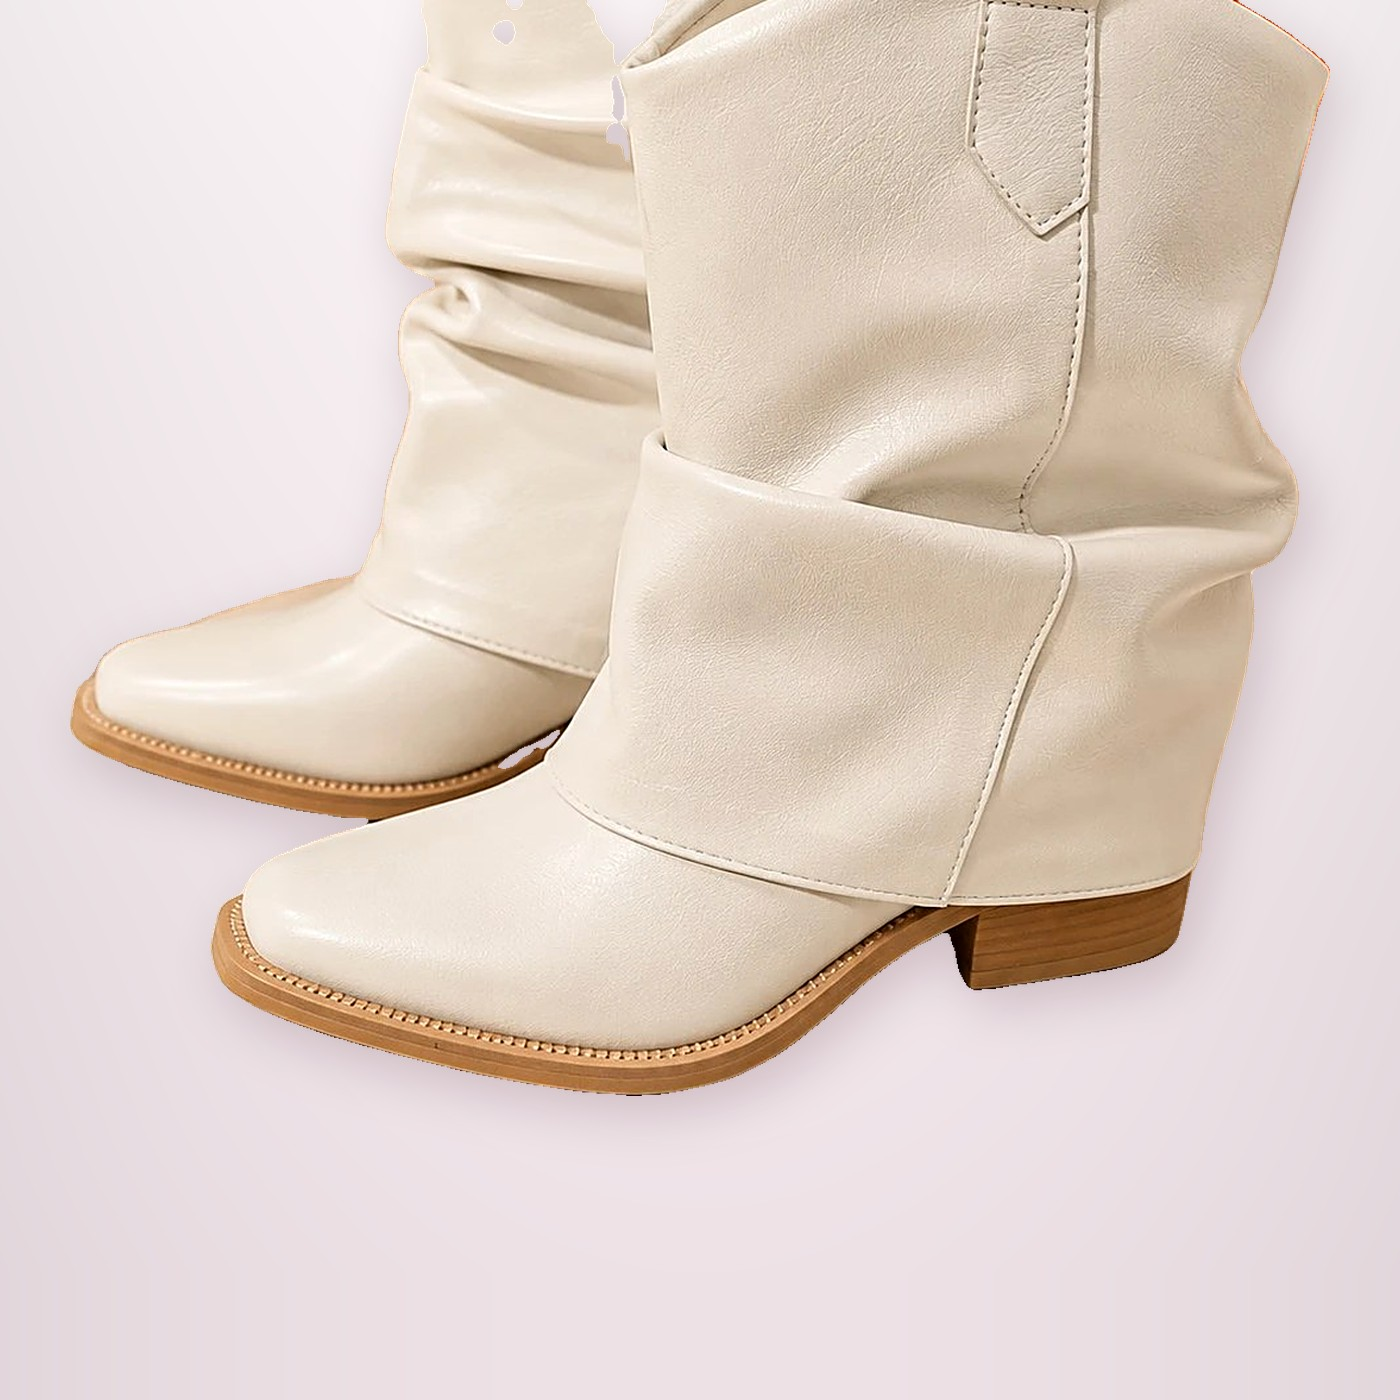
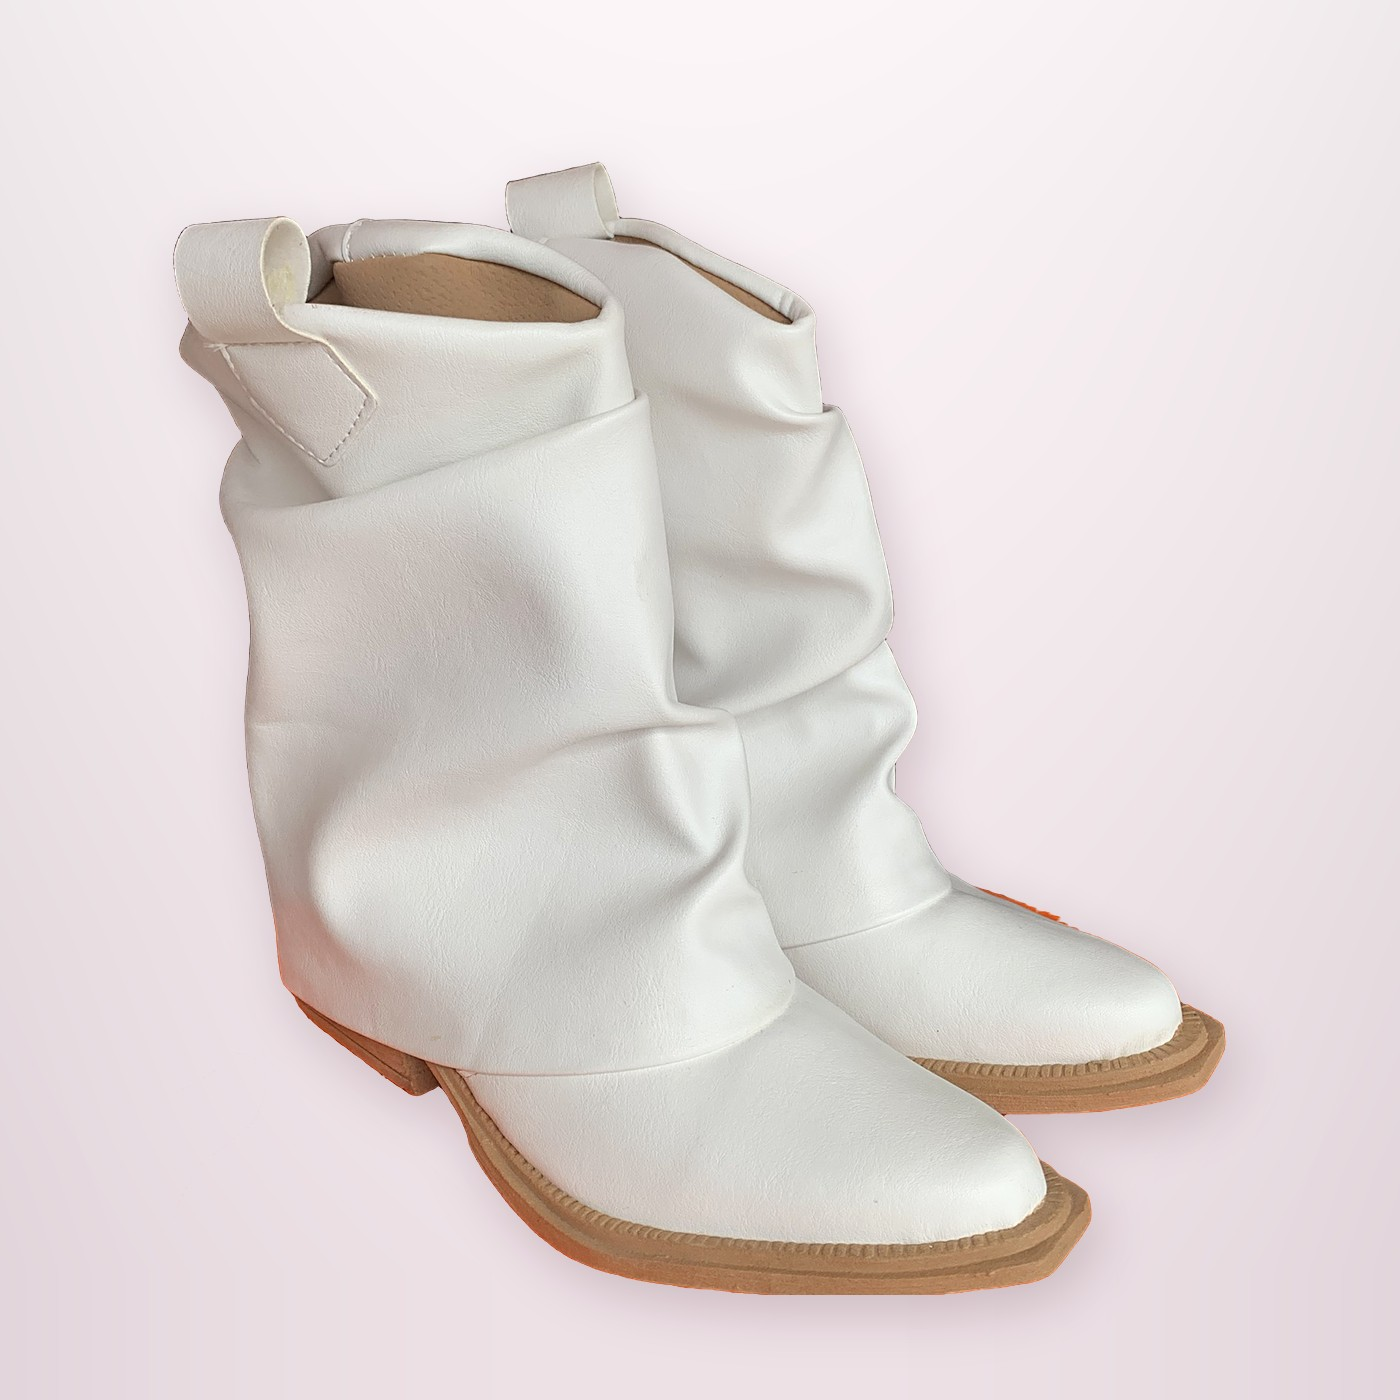
Bota caña fruncida: fotos reales de blanco, negro y bordó
Claude-Session: https://claude.ai/code/session_016kC1pPyL2jkNLS5KGy46ZW

diff --git a/productos.js b/productos.js
@@ -45,7 +45,7 @@
     {id:9,cat:"botas",nombre:"Bota corta con tachas",desc:"Elásticos laterales, tachas, taco de madera.",precio:30000,talles:[35,36,37,38,39,40],colores:[{id:"marron",nombre:"Marrón",hex:"#4E2E1E",foto:"fotos/bota-corta-tachas-marron.jpg"},{id:"negro",nombre:"Negro",hex:"#1C1C1C",foto:"fotos/bota-corta-tachas-negra.jpg"}]},
     {id:3,cat:"botas",caja:"bota-alta",nombre:"Bota texana con flecos",desc:"Gamuza, flecos laterales y tachas.",precio:55000,talles:[35,36,37,38,39,40],colores:[{id:"marron",nombre:"Marrón",hex:"#3E2418",foto:"fotos/bota-flecos-tachas-marron.jpg"},{id:"negro",nombre:"Negro",hex:"#1C1C1C",foto:"fotos/bota-flecos-tachas-negra.jpg"}]},
     {id:12,cat:"botas",caja:"bota-alta",nombre:"Bota caña alta con flecos",desc:"Caña fruncida, tiras con argollas, punta fina.",precio:50000,talles:[35,36,37,38,39,40],colores:[{id:"negro",nombre:"Negro",hex:"#1C1C1C",foto:"fotos/bota-cana-alta-flecos-negra.webp"},{id:"blanco",nombre:"Blanco",hex:"#F2EFEA"}]},
-    {id:4,cat:"botas",nombre:"Bota caña fruncida",desc:"Caña ancha fruncida, punta fina, taco bajo.",precio:40000,talles:[35,36,37,38,39,40],colores:[{id:"blanco",nombre:"Blanco",hex:"#F2EFEA",foto:"fotos/bota-fruncida-blanca.jpg"},{id:"negro",nombre:"Negro",hex:"#1C1C1C"},{id:"bordo",nombre:"Bordó",hex:"#5E1A22"},{id:"camel",nombre:"Camel",hex:"#C19A6B",foto:"fotos/bota-fruncida-camel.jpg"}]},
+    {id:4,cat:"botas",nombre:"Bota caña fruncida",desc:"Caña ancha fruncida, punta fina, taco bajo.",precio:40000,talles:[35,36,37,38,39,40],colores:[{id:"blanco",nombre:"Blanco",hex:"#F2EFEA",foto:"fotos/bota-fruncida-blanca.jpg"},{id:"negro",nombre:"Negro",hex:"#1C1C1C",foto:"fotos/bota-fruncida-negra.jpg"},{id:"bordo",nombre:"Bordó",hex:"#5E1A22",foto:"fotos/bota-fruncida-bordo.jpg"},{id:"camel",nombre:"Camel",hex:"#C19A6B",foto:"fotos/bota-fruncida-camel.jpg"}]},
     {id:5,cat:"botas",nombre:"Bota fruncida con hebillas",desc:"Caña fruncida, dos hebillas, taco chino.",precio:40000,talles:[35,36,37,38,39,40],colores:[{id:"negro",nombre:"Negro",hex:"#1C1C1C",foto:"fotos/bota-hebillas-negra.jpg"}]},
     {id:6,cat:"zapatos",nombre:"Zapato acordonado con tachas",desc:"Plataforma dentada, tachas plateadas.",precio:30000,talles:[35,36,37,38,39,40],colores:[{id:"bordo",nombre:"Bordó",hex:"#5E1A22",foto:"fotos/zapato-acordonado-bordo.webp"},{id:"negro",nombre:"Negro",hex:"#1C1C1C",foto:"fotos/zapato-acordonado-negro.jpg"}]},
     {id:7,cat:"zapatillas",nombre:"Zapatillas retro de gamuza",desc:"Gamuza, cordones anchos, suela de goma.",precio:30000,talles:[35,36,37,38,39,40,41,42,43,44],colores:[{id:"verde",nombre:"Verde",hex:"#095D13",foto:"fotos/zapatilla-campus-verde.webp"},{id:"negro",nombre:"Negro",hex:"#000000",foto:"fotos/zapatilla-campus-negra.jpg"}]},

diff --git a/CLAUDE.md b/CLAUDE.md
@@ -20,7 +20,7 @@ No hay Node ni Python en las computadoras. `.claude/launch.json` → "tienda" le
 - Hecho: catálogo con fotos (logos "Todo20" recortados; Todo20 es otra marca del mismo dueño), logo e isotipo (`img/`), checkout, envíos, editor, textos legales.
 - Catálogo Pontecomoda (proveedor/socio, se pueden usar sus fotos): ids 15 en adelante, nombres reescritos para clientes. Solo están disponibles los artículos de la "lista de precios verano" (Samba, Emi, Vicky, Ricky, París, Lore, Katy, Aldi, Romi, Vitto, Italia, Moscú, Zahira, Ximena, Cleo/Creo, Lali, India, Ameli, Cruz, Birk, Frida, Lupe, Verona tachas, Verona lisa, Támesis, Umma). El resto tiene `oculto:true` (desactivado, se reactiva borrando esa marca). Precio de venta = costo + $10.000 redondeado hacia abajo al millar (margen $9.000–10.000). No cargar artículos con logos de otras marcas (se descartó la Art. Air por la pipa de Nike).
 - Todos los productos activos tienen precio. Zapato acordonado $30.000, zapatillas urbanas gamuza $45.000, Campus y Samba (viejas) $30.000.
-- Faltan las fotos de los colores nuevos: negro (caña fruncida), blanco (caña alta con flecos) y bordó (caña fruncida). Mientras tanto la página avisa "foto de referencia en otro color".
+- Falta la foto del blanco de la bota caña alta con flecos (id 12). Mientras tanto la página avisa "foto de referencia en otro color".
 - El código está en GitHub: `tinchoteee/todo20`. Vercel publica la rama `main` en https://nacireina.vercel.app (cada push a `main` se publica solo). Dominio propio `nacireinacalzados.com` agregado en Vercel (2026-09-29; `www` redirige al dominio sin www). Con el dominio andando se puede verificar en Resend y cargar `RESEND_FROM` para mandarle mail de confirmación al cliente.
 - Configurado en Vercel (2026-09-28): base de datos Upstash, `ADMIN_CLAVE` y `MP_ACCESS_TOKEN` de producción (app "Nací Reina" en MP developers). La tienda ya cobra. Después (2026-09-29): Resend (`RESEND_API_KEY`, `AVISOS_EMAIL`) y Zipnova (`ZIPNOVA_API_TOKEN/SECRET/ACCOUNT_ID`, sin `ZIPNOVA_ORIGIN_ID`: usa el origen predeterminado de la cuenta) configurados y probados; compra real de prueba OK.
 - Beneficios por monto: envío gratis desde $150.000 (`envio.gratisDesde`, sobre el subtotal sin descuento) y 15% OFF en los productos desde $200.000 (`descuento` en productos.js; la cuenta está en `aplicarAjustes.conDescuento`, la usan página y servidor). El carrito muestra una barra de progreso con las dos metas.
@@ -40,7 +40,7 @@ No hay Node ni Python en las computadoras. `.claude/launch.json` → "tienda" le
 - Nunca pedir ni pegar claves ni datos bancarios en el chat: el usuario los carga directo en Vercel y en Mercado Pago.
 - Nombres sin marcas ajenas (2026-09-29): Campus → "Zapatillas retro de gamuza" (id 7), Samba → "Zapatillas retro suela caramelo" (id 8; después se unió a la id 31 a pedido del dueño: quedó `oculto` y su color marrón pasó a la 31 como "Caramelo y negro" a $30.000; su negro era el mismo que el de la 31), estilo Samba → "Zapatillas retro Reina" (id 31), Samba sin talón → "Zapatillas retro sin talón" (id 15, oculto). No usar Samba, Campus ni "tres tiras" en textos para clientes (los archivos de fotos conservan el nombre viejo).
 - Zapatillas retro Reina (id 31), 2026-09-29: el dueño dejó solo los 4 colores que tiene en el local (Negro, Blanco y negro, Blanco y gris, Marrón), todos a $24.000, con fotos propias sobre fondo blanco (`fotos/zapatilla-retro-*.jpg`; `FONDO=blanco` en `.claude/fotos-fondo.py`, recorte con el modelo birefnet-general-lite). Los colores viejos se borraron (no agotados).
-- Bota caña fruncida (id 4): 2026-09-29 se borró el color Marrón (y su foto) y se agregó Camel con foto real, a $40.000 como el resto.
+- Bota caña fruncida (id 4): 2026-09-29 se borró el color Marrón (y su foto) y se agregó Camel con foto real, a $40.000 como el resto. Después, fotos reales de Blanco (reemplazó la anterior), Negro (se neutralizó el reflejo naranja de la caja) y Bordó.
 - Pares por talle (2026-09-29): en el editor, cuadradito debajo de cada talle con la cantidad de pares. Se guarda aparte en el hash de Redis `nacireina:pares` ("id|color|talle" → n; sin clave = no se lleva la cuenta). `/api/stock` los manda como `pares`; `aplicarAjustes` marca agotado el talle con 0 y expone `paresDe`. Cada pago aprobado descuenta en `_procesar.js` (EVAL atómico, nunca baja de 0; una vez por pago) y el email de la venta muestra cuánto quedó. `lineasDelPedido` no deja comprar más de los que hay; la tienda limita el carrito y avisa "¡Queda el último par!" (≤3). El editor manda solo los talles que cambiaron (no pisa ventas). Cancelaciones/devoluciones: se repone a mano.
 - Privacidad: pregunta "¿Qué hacen con mis datos?" (`#privacidad`) en el FAQ + link en el pie (Ley 25.326, Píxel de Meta y Vercel Analytics). Si se agrega otra herramienta de medición, sumarla ahí.
 - Siguiente paso: fotos de los colores que faltan (punto 5).
